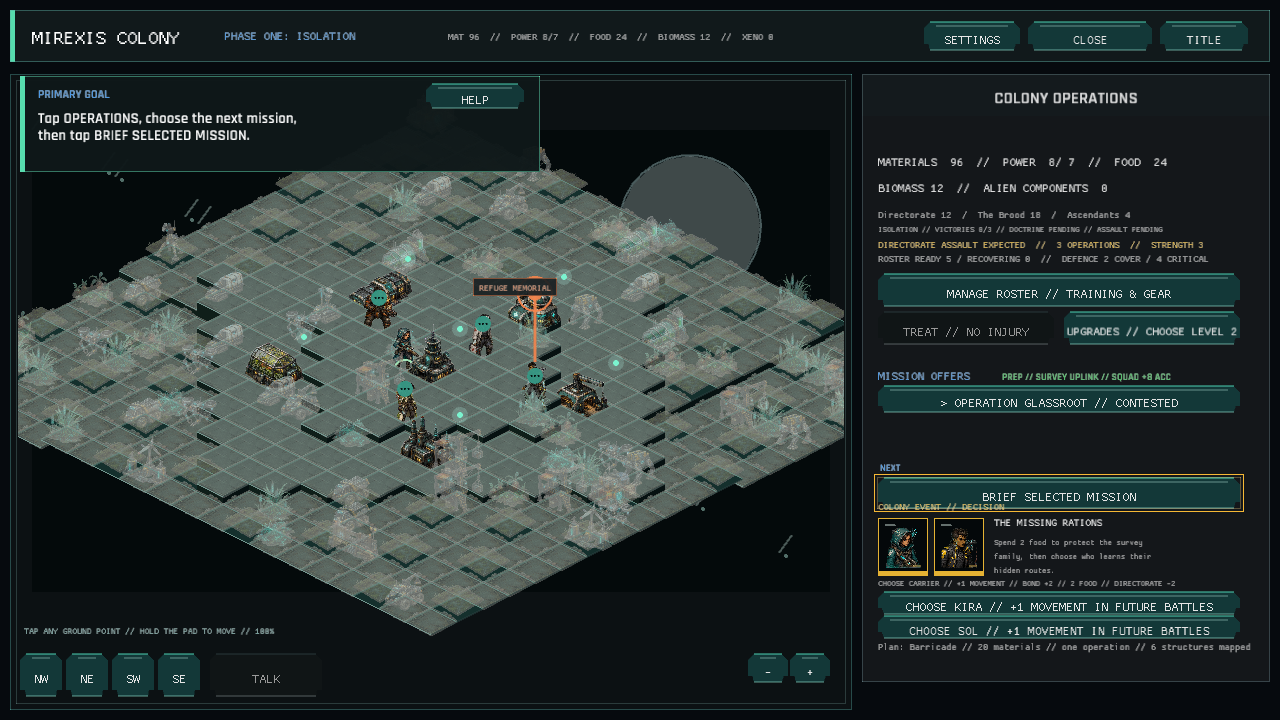
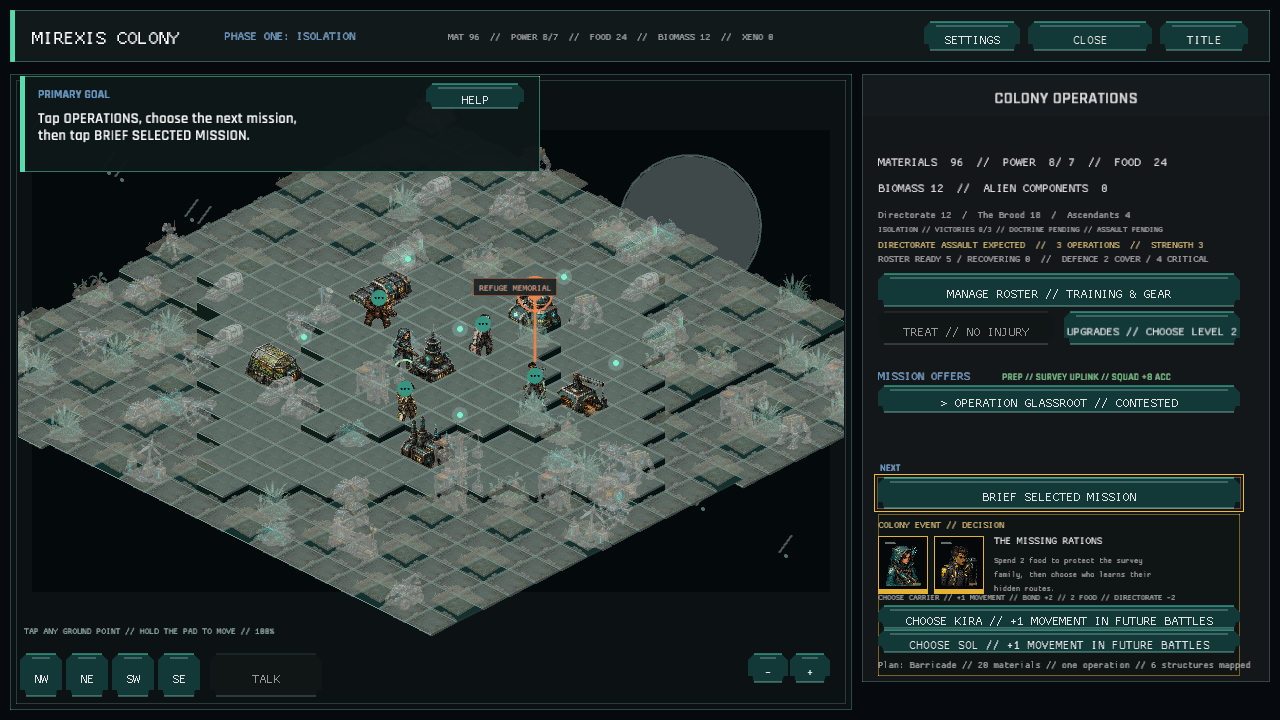
The event card waits below the briefing signal (first-hour Operations layout)
The guided Operations view placed its active colony decision header directly against the first-hour briefing focus, and the relocated choice buttons then crossed the shared colony plan line.

The event now renders in a framed lower lane, with its plan baseline kept below both carrier choices. Geometry coverage protects the gap and card bounds, while the canonical Operations capture and acceptance notes record the improved handoff.

Changed region(s): [[0.6875, 0.7028, 0.9688, 0.9472]]

diff --git a/src/colony_ui.rs b/src/colony_ui.rs
@@ -315,7 +315,7 @@ pub(super) fn draw_operations(
             }
         }
         if colony_button(
-            Rect::new(878.0, 478.0, 362.0, 30.0),
+            mission_briefing_bounds(),
             "BRIEF SELECTED MISSION",
             campaign.strategy.selected_mission().is_some(),
             mouse,
@@ -514,7 +514,7 @@ pub(super) fn draw_operations(
                 defense.blocked_tiles.len()
             ),
             878.0,
-            650.0,
+            colony_plan_baseline(campaign),
             TextStyle::new(12.0, dark::TEXT_DIM).params(),
         );
     }
@@ -522,6 +522,22 @@ pub(super) fn draw_operations(
 
 fn should_draw_colony_plan(campaign: &CampaignState) -> bool {
     !campaign.strategy.campaign_complete
+}
+
+fn mission_briefing_bounds() -> Rect {
+    Rect::new(878.0, 478.0, 362.0, 30.0)
+}
+
+fn character_event_card_bounds() -> Rect {
+    Rect::new(878.0, 514.0, 362.0, 162.0)
+}
+
+fn colony_plan_baseline(campaign: &CampaignState) -> f32 {
+    if campaign.strategy.available_event().is_some() {
+        668.0
+    } else {
+        650.0
+    }
 }
 
 fn draw_character_event(
@@ -559,10 +575,19 @@ fn draw_character_event(
         .iter()
         .find(|faction| faction.id == attention_faction)
         .map_or(attention_faction, |faction| faction.name.as_str());
+    let card = character_event_card_bounds();
+    draw_rectangle(
+        card.x,
+        card.y,
+        card.w,
+        card.h,
+        Color::new(0.038, 0.058, 0.062, 0.98),
+    );
+    draw_rectangle_lines(card.x, card.y, card.w, card.h, 1.0, dark::WARNING);
     draw_ui_text_ex(
         "COLONY EVENT // DECISION",
-        878.0,
-        510.0,
+        card.x,
+        card.y + 14.0,
         TextStyle::new(12.0, dark::WARNING).params(),
     );
     if let Some(definition) = definition {
@@ -575,7 +600,7 @@ fn draw_character_event(
                 crate::portrait_ui::draw_character_portrait(
                     assets,
                     visuals,
-                    Rect::new(878.0 + index as f32 * 56.0, 518.0, 50.0, 58.0),
+                    Rect::new(card.x + index as f32 * 56.0, card.y + 22.0, 50.0, 58.0),
                     &character.id,
                     &character.name,
                     dark::WARNING,
@@ -584,8 +609,8 @@ fn draw_character_event(
         }
         draw_ui_text_ex(
             &event.title.to_uppercase(),
-            994.0,
-            526.0,
+            card.x + 116.0,
+            card.y + 30.0,
             TextStyle::new(13.0, dark::TEXT_BRIGHT).params(),
         );
         for (index, line) in wrap_words(&definition.description, 38)
@@ -595,8 +620,8 @@ fn draw_character_event(
         {
             draw_ui_text_ex(
                 &line,
-                994.0,
-                545.0 + index as f32 * 14.0,
+                card.x + 116.0,
+                card.y + 49.0 + index as f32 * 14.0,
                 TextStyle::new(10.0, dark::TEXT_DIM).params(),
             );
         }
@@ -610,8 +635,8 @@ fn draw_character_event(
             attention_name.to_uppercase(),
             event.attention_change
         ),
-        878.0,
-        586.0,
+        card.x,
+        card.y + 86.0,
         TextStyle::new(10.0, dark::TEXT_DIM).params(),
     );
     for (index, participant_id) in event.participants.iter().take(2).enumerate() {
@@ -635,7 +660,7 @@ fn draw_character_event(
             campaign.colony.resources.food,
         );
         if colony_button(
-            Rect::new(878.0, 592.0 + index as f32 * 24.0, 362.0, 22.0),
+            Rect::new(card.x, card.y + 92.0 + index as f32 * 24.0, card.w, 22.0),
             &label,
             campaign
                 .strategy

diff --git a/src/colony_ui/tests.rs b/src/colony_ui/tests.rs
@@ -11,3 +11,12 @@ fn completed_campaign_drops_the_obsolete_plan_line() {
 
     assert!(!should_draw_colony_plan(&campaign));
 }
+
+#[test]
+fn event_card_stays_below_the_first_hour_briefing_focus() {
+    let briefing = mission_briefing_bounds();
+    let event = character_event_card_bounds();
+
+    assert!(event.y >= briefing.y + briefing.h + 4.0);
+    assert!(event.y + event.h <= 682.0);
+}

diff --git a/docs/PHASE_1_ACCEPTANCE_MATRIX.md b/docs/PHASE_1_ACCEPTANCE_MATRIX.md
@@ -1,7 +1,7 @@
 # Phase 1 Acceptance Matrix
 
 Status: implementation evidence audited; observed-session gates pending
-Audit baseline: save/content 1.207.0, validated and committed with this matrix
+Audit baseline: save/content 1.208.0, validated and committed with this matrix
 
 This matrix maps every Phase 1 workstream and definition-of-done requirement to
 authoritative evidence. `VERIFIED` means code, tests, captures, or an operator-run path
@@ -17,7 +17,7 @@ developer are not substitutes for that evidence.
 | D02 | Five first-time players complete without external instructions | Five empty required rows in `PHASE_1_PLAYTEST_LOG.md` | HUMAN PENDING |
 | D03 | At least two end-to-end runs use visible touch/click controls only | Touch-primary rows 2 and 4 await observed runs | HUMAN PENDING |
 | D04 | Operation one teaches the core loop and operation two demonstrates transfer | Ordered `TacticalLesson` transitions, a cover-tile-gated first move, reachable opening firing lane and objective route, guided forecast confirmation, contextual tactical focus, a persisted `SecondOperationTactical` focus, colony-side handoff focus, usable ability recovery, and unscripted second-operation play; player transfer must still be observed | IMPLEMENTED / HUMAN PENDING |
-| D05 | City supplies direction, preparation, character connection, and visible consequences | `first_hour_ui.rs`, `first_hour_investment_ui.rs`, colony conversations plus prerequisite-aware Operations treatment, research, and character-event controls, outcome-sensitive `first_hour_consequences_ui.rs`, clear debrief goal/result layering, fielded-versus-reserve squad disclosure including recruited fielded colonists, recruited-roster list coverage, deployed-squad XP disclosure, and colony/debrief captures | VERIFIED |
+| D05 | City supplies direction, preparation, character connection, and visible consequences | `first_hour_ui.rs`, `first_hour_investment_ui.rs`, colony conversations plus prerequisite-aware Operations treatment, research, and character-event controls, separated first-hour briefing and character-event lanes, outcome-sensitive `first_hour_consequences_ui.rs`, clear debrief goal/result layering, fielded-versus-reserve squad disclosure including recruited fielded colonists, recruited-roster list coverage, deployed-squad XP disclosure, and colony/debrief captures | VERIFIED |
 | D06 | First investment has a clear observable effect | Three 24-material preparations, persistent Operations/tactical breadcrumbs in `ui_first_hour_operations.png` and `ui_second_operation_tactical.png`, and `first_investment_changes_only_the_second_deployment` | VERIFIED |
 | D07 | Victory, defeat, save, continue, refresh, and resize paths are verified | `PHASE_1_HARDENING.md`, persistence/outcome tests including finished-save debrief restoration, and the recorded WebGL operator pass | VERIFIED |
 | D08 | Audio/settings exist and critical information remains visual | `audio.rs`, audio tests, settings UI, settings-modal input isolation, event prose/markers, and browser persistence pass; fatigue remains an observation target | VERIFIED / HUMAN PENDING |

diff --git a/docs/verification/FINAL_CAPTURE_INVENTORY.md b/docs/verification/FINAL_CAPTURE_INVENTORY.md
@@ -29,7 +29,7 @@ Manifest: `scripts/capture_ui.ps1`
 - `ui_first_hour_return.png`: the first-return recovery handoff routes the player to Ilya's highlighted speech marker before preparation.
 - `ui_first_hour_dialogue.png`: required first-hour conversations focus the visible CONTINUE control after the target speaker opens.
 - `ui_first_hour_promise.png`: the promise beat distinguishes a hardened outer route from a second-operation breach and focuses CONTINUE CAMPAIGN before continuation.
-- `ui_first_hour_operations.png`: guided colony handoff keeps the next mission briefing and active preparation visible inside the open Operations drawer.
+- `ui_first_hour_operations.png`: guided colony handoff keeps the next mission briefing distinct from the framed event decision card, with both carrier choices and the colony plan visible inside the open Operations drawer.
 - `ui_adaptation_operation.png` and `ui_escalation_operation.png`: threat-intelligence rows stay inside the right briefing column, with repeated hostile roles collapsed and long labels fitted before the deployment controls.
 - `ui_roster.png`, `ui_recruited_roster.png`, and `ui_advanced_roster.png`: the complete workshop equipment catalog stays inside the training panel and above the footer instruction line.
 - `ui_battle_log.png` and `ui_phase_replay.png`: attack history and hostile replay beats use readable display names, name HIT/MISS outcomes with immediate damage consequences, and the battle log distinguishes ability, recovery, status, objective, and cover events with matching counts on each filter.
@@ -123,7 +123,7 @@ Manifest: `scripts/capture_ui.ps1`
[8 lines of base64/hex data omitted]

diff --git a/docs/PHASE_1_HARDENING.md b/docs/PHASE_1_HARDENING.md
@@ -31,7 +31,7 @@ Status: automated and internal verification complete; external playtests pending
 
 ## Automated verification baseline
 
-- 501 Mirexis unit tests pass, including deployment-row affordance coverage for full,
+- 503 Mirexis unit tests pass, including deployment-row affordance coverage for full,
   minimum, and recovering squads, construction availability coverage for unlocks,
   materials, and unique projects, effective repair-cost affordability coverage, and
   tactical equipment cancellation coverage, invalid-target persistence coverage, and
@@ -52,8 +52,8 @@ Status: automated and internal verification complete; external playtests pending
   attack-outcome event-summary, callout-lane geometry, recovery-audio, battle-log
   event-grouping, filter-count, hostile-replay-consequence, and display-name event-summary
   coverage,
-  debrief-return, dialogue-continue, advance-control, and briefing-deployment focus
-  coverage, and campaign decision resource-gate
+  debrief-return, dialogue-continue, advance-control, briefing-deployment focus, and
+  first-hour Operations event-card geometry coverage, and campaign decision resource-gate
   label coverage, facility-upgrade blocker-label coverage, first-hour investment
   material-gate label coverage, character-event food-gate label coverage, Build Mode
   construction-blocker label coverage, roster equipment-row geometry coverage, finale

diff --git a/TECHNICAL_DESIGN.md b/TECHNICAL_DESIGN.md
@@ -2,7 +2,7 @@
 
 Status: systems-rich tech demo; playable-game refinement in progress
 Current production target: cohesive first-hour playable build
-Save/content version: 1.207.0
+Save/content version: 1.208.0
 Target platforms: Windows and browser/WASM
 Runtime: Rust 2021, Macroquad, macroquad-toolkit
 
@@ -983,6 +983,7 @@ Migration coverage:
 | 1.205.0 | Roster workshop equipment rows now fit the full equipment catalog inside the training panel above the footer; no new save fields |
 | 1.206.0 | Completed-campaign Operations drawers suppress the obsolete colony plan line so the seven-row legacy register keeps its own lower lane; no new save fields |
 | 1.207.0 | Tactical combat feedback now places nearby event callouts in separate readable plates above the battlefield effect lane; no new save fields |
+| 1.208.0 | First-hour Operations now separates the briefing focus from the framed colony-event decision card and keeps the colony plan below both participant choices; no new save fields |
 
 Every future schema bump must migrate the immediately previous version and add a
 fixture test. Validate saved content IDs before adding content removal or renaming.
